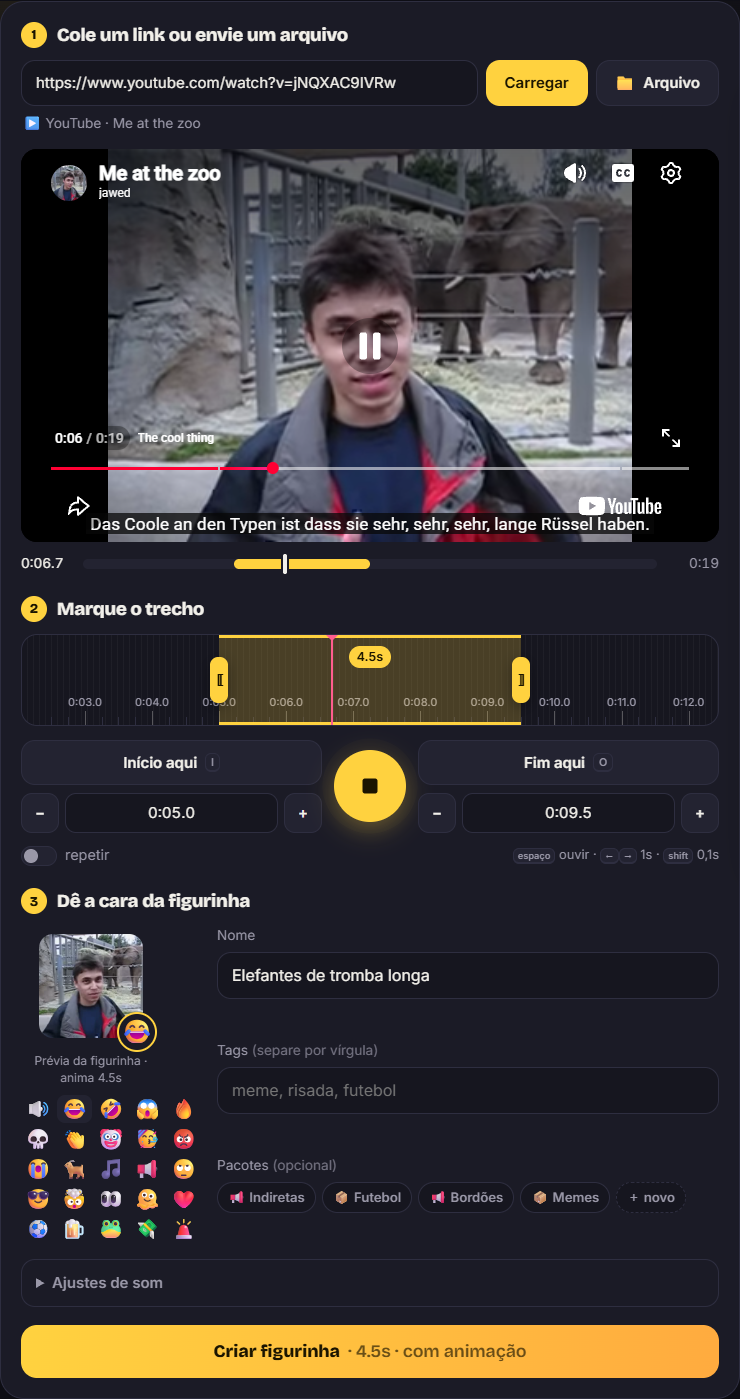
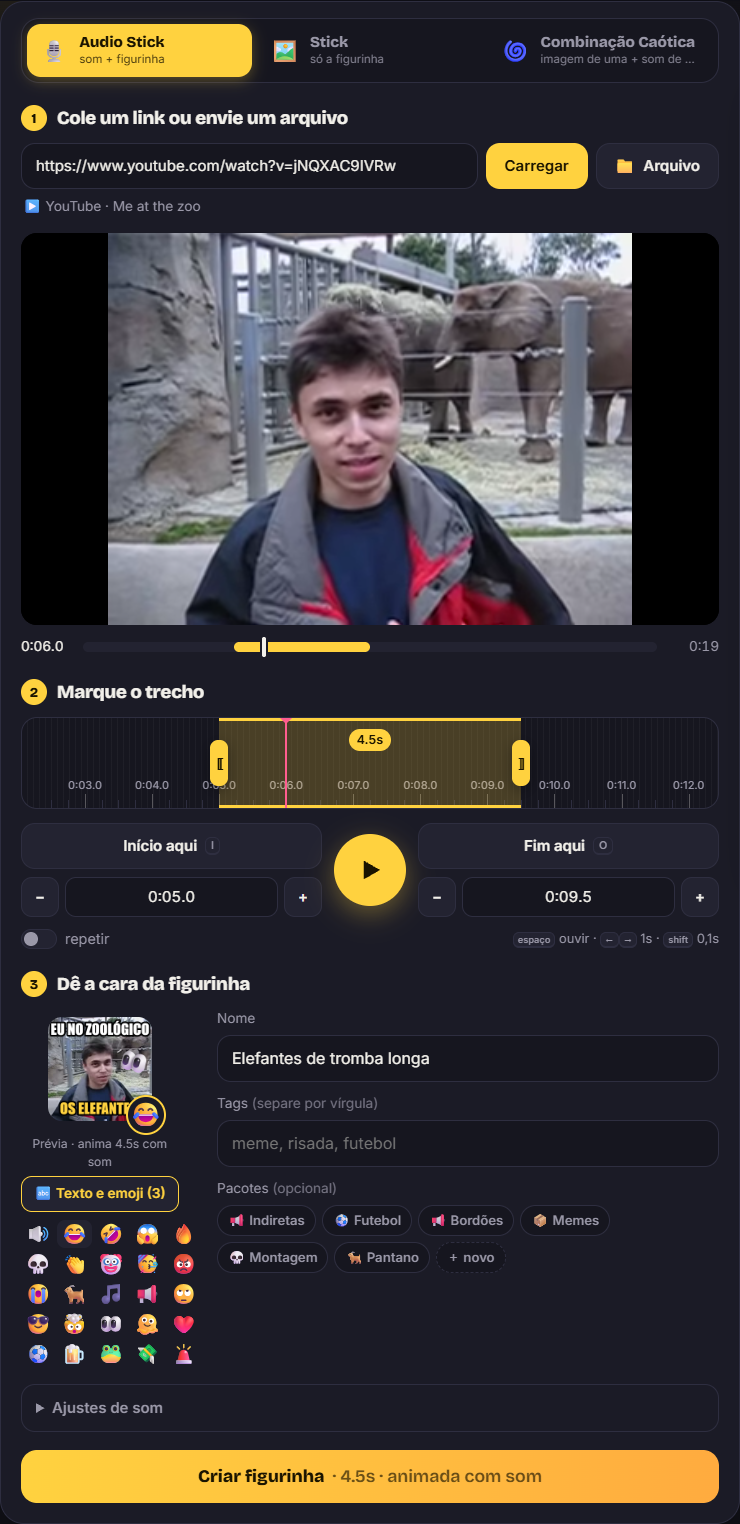
📸 Prints novos (texto e emoji, Combinação) · ajuda e LEIAME atualizados

diff --git a/public/app.js b/public/app.js
@@ -1811,7 +1811,6 @@ const HELP_TABS = {
     <div class="feat">
       <div class="card"><div class="t"><span>🎙</span>Audio Stick</div><p>Um trecho de vídeo ou áudio vira <b>som</b> (e, até 10s, figurinha animada com som).</p></div>
       <div class="card"><div class="t"><span>🖼</span>Stick</div><p><b>Só a figurinha</b>, sem som: de foto, GIF ou trecho de vídeo.</p></div>
-      <div class="card"><div class="t"><span>🔤</span>Texto e emoji</div><p>Escreva na figurinha com a <b>fonte</b>, a <b>cor</b>, a <b>borda</b>, o <b>tamanho</b> e a <b>inclinação</b> que quiser, e cole <b>emojis</b>. Arraste para posicionar. Tem o atalho <b>Meme clássico</b> (em cima e embaixo). Vale para foto, GIF e vídeo.</p></div>
       <div class="card"><div class="t"><span>🌀</span>Combinação Caótica</div><p>A <b>imagem</b> de uma + o <b>som</b> de outra. Da coleção ou criadas na hora.</p></div>
     </div>
     <h4>Do vídeo à figurinha em 4 passos</h4>
@@ -1844,6 +1843,7 @@ const HELP_TABS = {
       <div class="card"><div class="t"><span>🎞</span>Figurinha com som</div><p>Trechos de até <b>5s</b> viram figurinha <b>animada</b> com som; de <b>5 a 10s</b>, figurinha <b>parada</b> com som (limites do WhatsApp).</p><span class="tag">experimental</span></div>
       <div class="card"><div class="t"><span>🖼</span>Stick (só a figurinha)</div><p>Figurinha <b>sem som</b> de uma <b>foto</b> (parada), de um <b>GIF</b> ou de um trecho de <b>vídeo</b> de até 10s (animada). Dá para <b>recortar quadrado</b> ou mostrar <b>inteira, com fundo transparente</b>.</p></div>
       <div class="card"><div class="t"><span>✂</span>Tirar o fundo</div><p>Como no WhatsApp: a IA recorta <b>pessoas</b> sozinha (até em <b>vídeo e GIF</b>, quadro a quadro) ou você <b>toca no que manter</b>. Tem pincel, sensibilidade e <b>borda branca</b>. Roda no seu navegador.</p></div>
+      <div class="card"><div class="t"><span>🔤</span>Texto e emoji</div><p>Escreva na figurinha com a <b>fonte</b>, a <b>cor</b>, a <b>borda</b>, o <b>tamanho</b> e a <b>inclinação</b> que quiser, e cole <b>emojis</b>. Arraste para posicionar. Tem o atalho <b>Meme clássico</b> (em cima e embaixo). Vale para foto, GIF e vídeo.</p></div>
       <div class="card"><div class="t"><span>🌀</span>Combinação Caótica</div><p>Junte a <b>imagem</b> de uma figurinha com o <b>som</b> de outra (até 10s). Cada peça vem da coleção ou é criada na hora. As peças criadas só para isso podem ser apagadas depois.</p></div>
       <div class="card"><div class="t"><span>🎙</span>Áudio (mensagem de voz)</div><p>Trechos de até <b>60s</b> viram áudio com a ondinha desenhada, como se você tivesse gravado.</p></div>
       <div class="card"><div class="t"><span>📦</span>Pacotes</div><p>Organize por categoria (Memes, Futebol…). Uma figurinha pode estar em vários. Envie o pacote inteiro de uma vez.</p></div>

diff --git a/README.md b/README.md
@@ -47,6 +47,10 @@ Pois é. Agora ele vira figurinha. Com som. Em três cliques.
     <td width="50%" align="center"><img src="docs/screenshots/figurinha-com-som.png" alt="Janela da figurinha com som"><br><sub><b>Figurinha com som</b>: com som, sem som, só áudio ou .mp4</sub><br><br><img src="docs/screenshots/celular.png" alt="Versão de celular" width="60%"><br><sub><b>No celular</b>: funciona no mesmo Wi-Fi</sub></td>
   </tr>
   <tr>
+    <td align="center"><img src="docs/screenshots/texto-emoji.png" alt="Editor de texto e emoji com meme clássico sobre a figurinha"><br><sub><b>🔤 Texto e emoji</b>: fonte de meme, cor, borda e emoji arrastável</sub></td>
+    <td align="center"><img src="docs/screenshots/combinacao.png" alt="Combinação Caótica: imagem de uma figurinha mais o som de outra"><br><sub><b>🌀 Combinação Caótica</b>: o gato com a voz do Zé Roberto. Arrasta ou cola (Ctrl+V) direto na caixa</sub></td>
+  </tr>
+  <tr>
     <td align="center"><img src="docs/screenshots/tour.png" alt="Tour guiado destacando o seletor de destino"><br><sub><b>Tour guiado</b>: para quem não lê README 👀</sub></td>
     <td align="center"><img src="docs/screenshots/ajuda.png" alt="Guia de ajuda"><br><sub><b>Ajuda</b>: passo a passo, recursos, atalhos e dúvidas</sub></td>
   </tr>

diff --git a/LEIAME.md b/LEIAME.md
@@ -80,7 +80,9 @@ Abra **http://localhost:3000**. Para gerar o executável: `npm run build:exe` (d
 | **?** | Guia ilustrado: começando, recursos, atalhos e dúvidas. |
 | **GitHub** (ícone do gatinho) | Abre o [repositório do projeto](https://github.com/ivandneto/zapsticks-do-caos): código, novidades e versões para baixar. |
 | **⚙** | Configurações: porta, endereço para o celular, pasta dos dados, backup. |
-| **Estúdio** (esquerda) | Onde você cola o link, marca o trecho e cria a figurinha. |
+| **Estúdio** (esquerda) | Onde você cola o link, marca o trecho e cria a figurinha. Aceita **arrastar** um arquivo e **Ctrl+V** (imagem copiada, arquivo ou link). |
+| **Abas do estúdio** | **🎙 Audio Stick** (som + figurinha), **🖼 Stick** (só a figurinha) e **🌀 Combinação Caótica** (a imagem de uma + o som de outra). |
+| **🔤 Texto e emoji** e **✂ Tirar o fundo** (embaixo da prévia, no passo 3) | Escrever na figurinha (fonte, cor, borda, emoji) e recortar o fundo com IA. |
 | **Coleção** (direita) | Suas figurinhas. Funciona como uma mesa de som: toque para ouvir. |
 | **Enviar para** | Para quem vão todos os envios (você, um contato, um grupo ou um número). |
 | **Pacotes** (coluna da direita) | Suas categorias. Clique para filtrar. |
